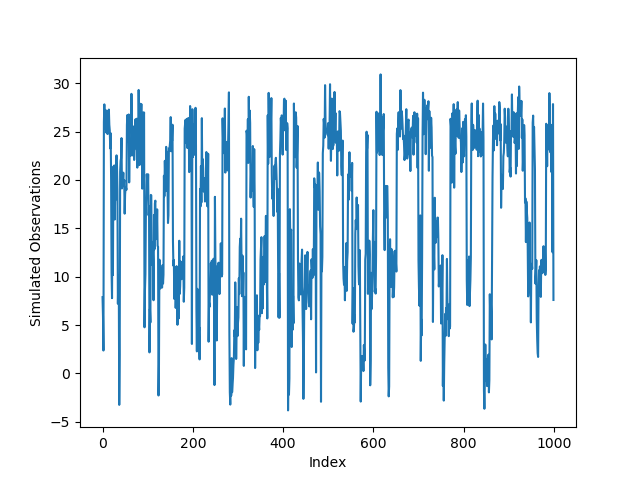
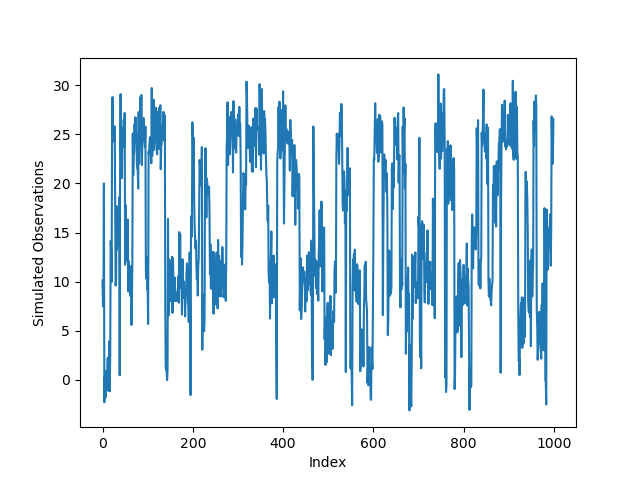
training and test num

diff --git a/src/cross_validation.py b/src/cross_validation.py
@@ -14,7 +14,7 @@ class CrossValidation:
         self.model = None  # will either be a Bayesian or a MaxLike model
 
 
-    def train(self, num_training=1200, num_test=200, num_iter=10000, num_burnin=1000):
+    def train(self, num_training=1000, num_test=200, num_iter=10000, num_burnin=1000):
         """
 
         :param num_training: size of the training set for cv
@@ -24,15 +24,14 @@ class CrossValidation:
         :return:
         """
 
-        obs, state_path = self.data.simulate_continuous(num_obs=num_training)
+        obs, state_path = self.data.simulate_continuous(num_obs=num_training+num_test)
 
         # TODO: (SHERRY) KDE plot
 
-        index = num_training - num_test
-        training_set = obs[:index]
-        test_set = obs[index:]
-        training_state_path = state_path[:index]
-        test_state_path = state_path[index:]
+        training_set = obs[:num_training]
+        test_set = obs[-num_test:]
+        training_state_path = state_path[:num_training]
+        test_state_path = state_path[-num_test:]
 
 
         if self.bayesian:

diff --git a/src/main.py b/src/main.py
@@ -21,7 +21,7 @@ if __name__ == "__main__":
     for i in range(100):
         # ... arr = np.array()
         model = CrossValidation(bayesian = bayesian)
-        state_path, test_set, test_state_path = model.train(num_training=1200,
+        state_path, test_set, test_state_path = model.train(num_training=1000,
                                                             num_test=200,
                                                             num_iter=100,
                                                             num_burnin=100)
